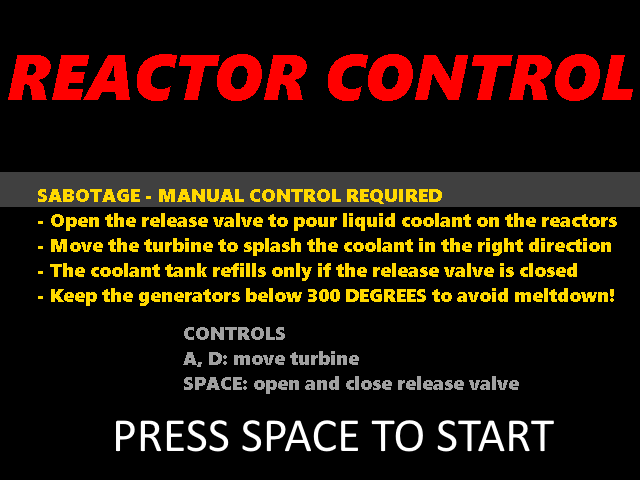
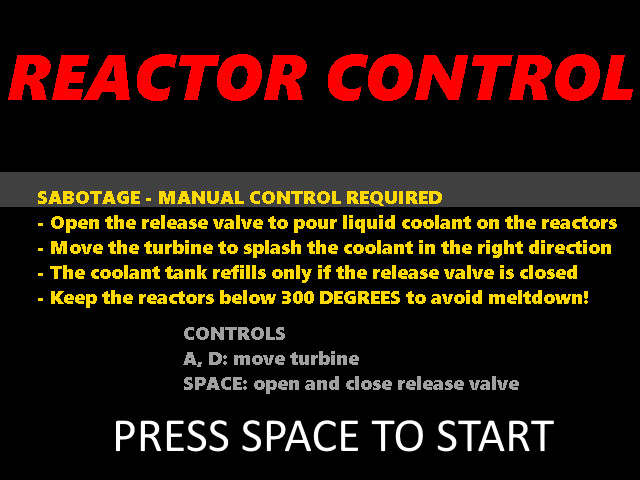
gameover

Changed region(s): [[0.0625, 0.375, 0.9688, 0.6562]]

diff --git a/main.py b/main.py
@@ -2,11 +2,13 @@
 Pygame-Community-Easter-Jam-2023 entry
 https://itch.io/jam/pg-community-easter-jam-2023
 
+REACTOR CONTROL
+
 SABOTAGE - MANUAL CONTROL REQUIRED
 - Open the release valve to pour liquid coolant on the reactors
 - Move the turbine to splash the coolant in the right direction
 - The coolant tank refills only if the release valve is closed
-- Keep the generators below 300 DEGREES to avoid meltdown!
+- Keep the reactors below 300 DEGREES to avoid meltdown!
 
 CONTROLS
 A, D: move turbine
@@ -396,8 +398,8 @@ def main_function(): # PYGBAG: decorate with 'async'
     """Main"""
     pg.init()
 
-    screen = pg.display.set_mode(SCR_SIZE)#, flags=pg.SCALED)
-    pg.display.set_caption("Pastel Particle Overdose")
+    screen = pg.display.set_mode(SCR_SIZE, flags=pg.SCALED)
+    pg.display.set_caption("REACTOR CONTROL")
     clock = pg.time.Clock()
 
     game_state = init_game()
@@ -429,8 +431,3 @@ def main_function(): # PYGBAG: decorate with 'async'
 if __name__ == '__main__':
     # asyncio.run(main_function()) # PYGBAG
     main_function()
-
-    # for i in range(0, 360, 45):
-    #     angle = math.radians(i)
-    #     v = Vector2(math.cos(angle), math.sin(angle))
-    #     print(i, v.project(Vector2(1,0)))
